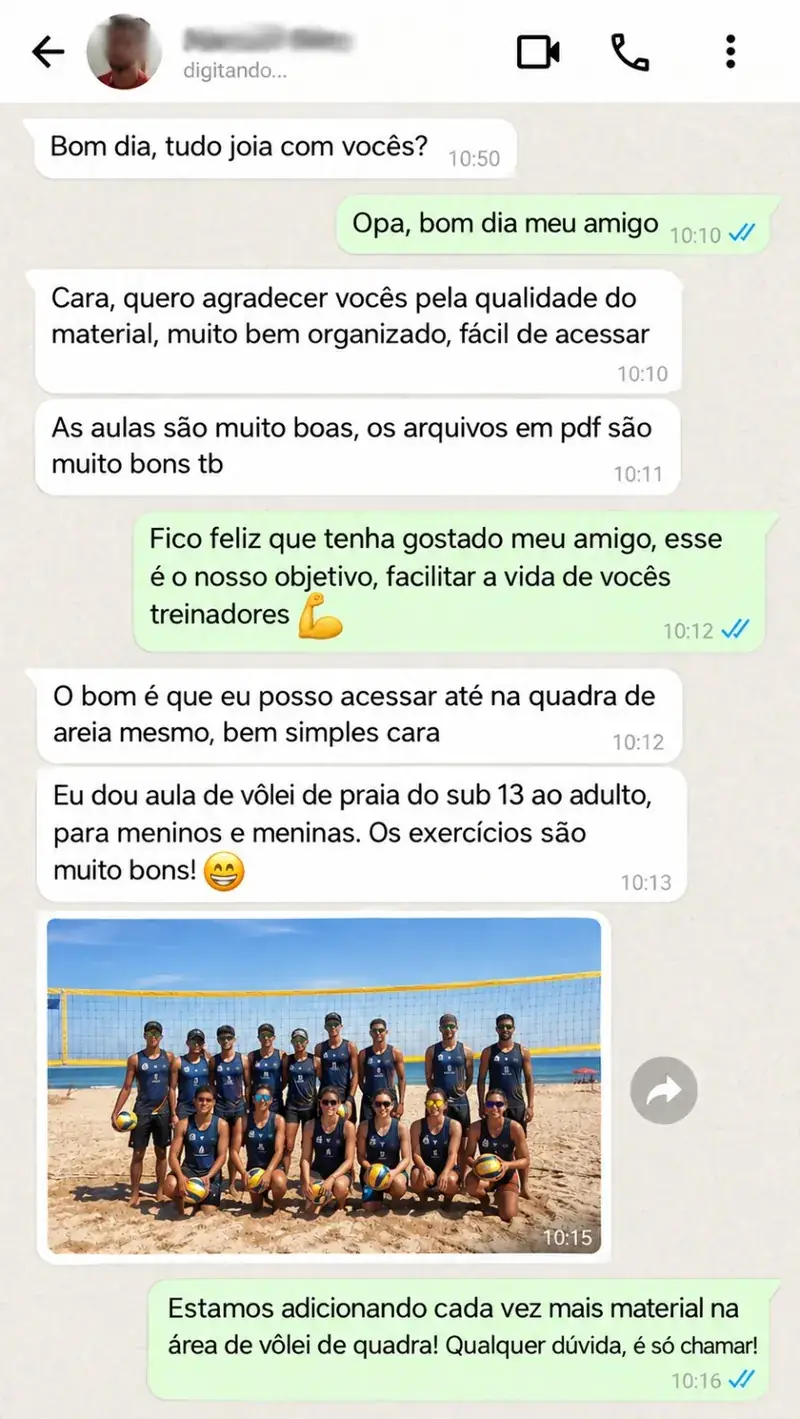
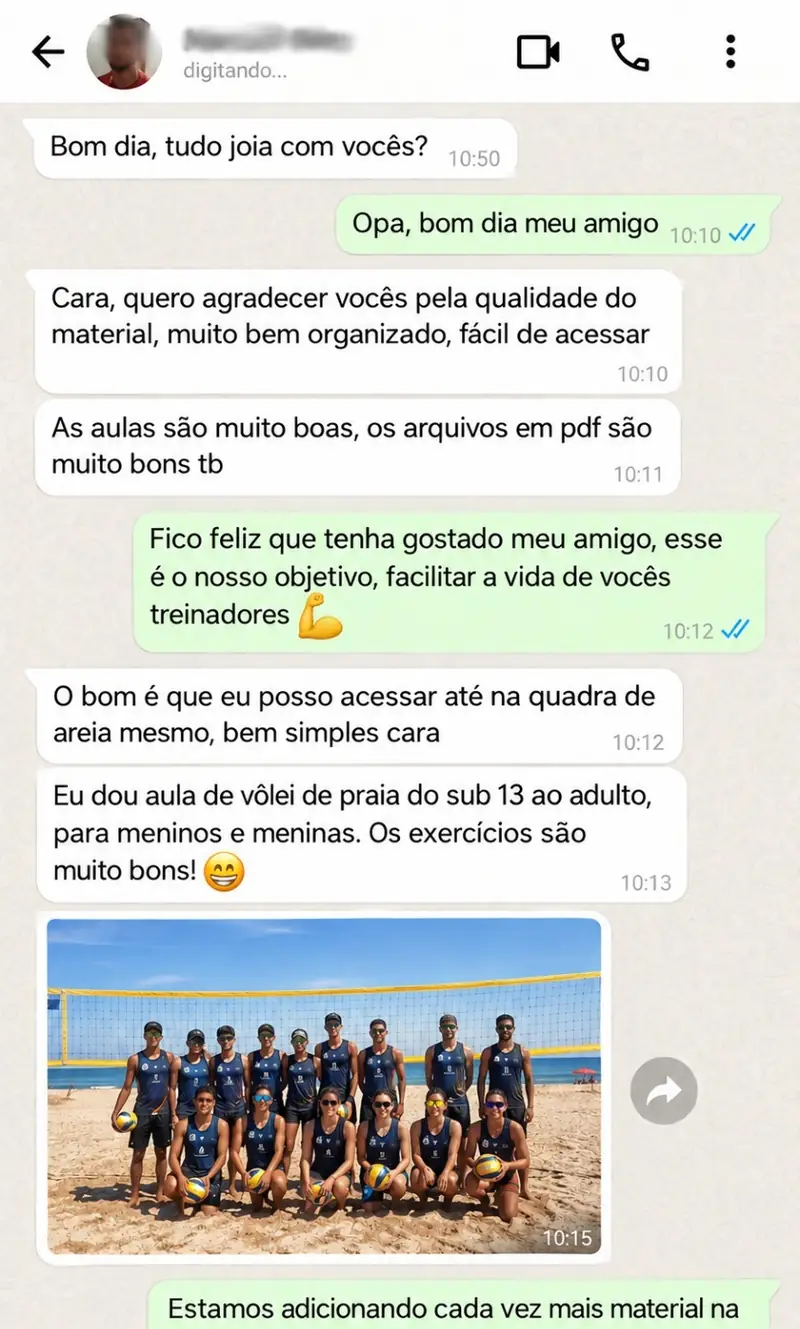
Troca o 3º depoimento pelo print novo (webp otimizado)
Claude-Session: https://claude.ai/code/session_016Suw6Pr5ZPMMemHs57s2JD

diff --git a/src/components/TrainerTestimonials.tsx b/src/components/TrainerTestimonials.tsx
@@ -37,7 +37,7 @@ const DEPOIMENTOS: Depoimento[] = [
     src: depoimento3,
     alt: 'Conversa de WhatsApp em que um treinador de vôlei de praia agradece pelo material organizado e fácil de acessar, inclusive na quadra de areia',
     w: 800,
-    h: 1419,
+    h: 1329,
   },
   { src: null, alt: '' },
   { src: null, alt: '' },
